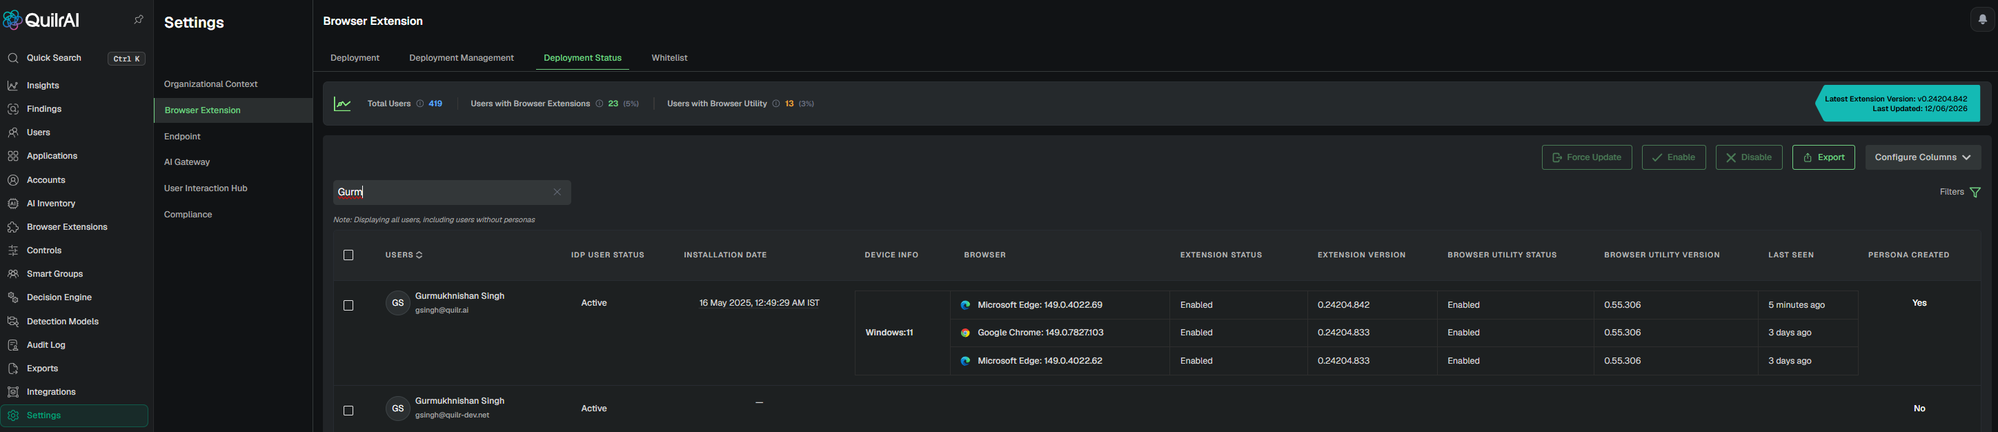
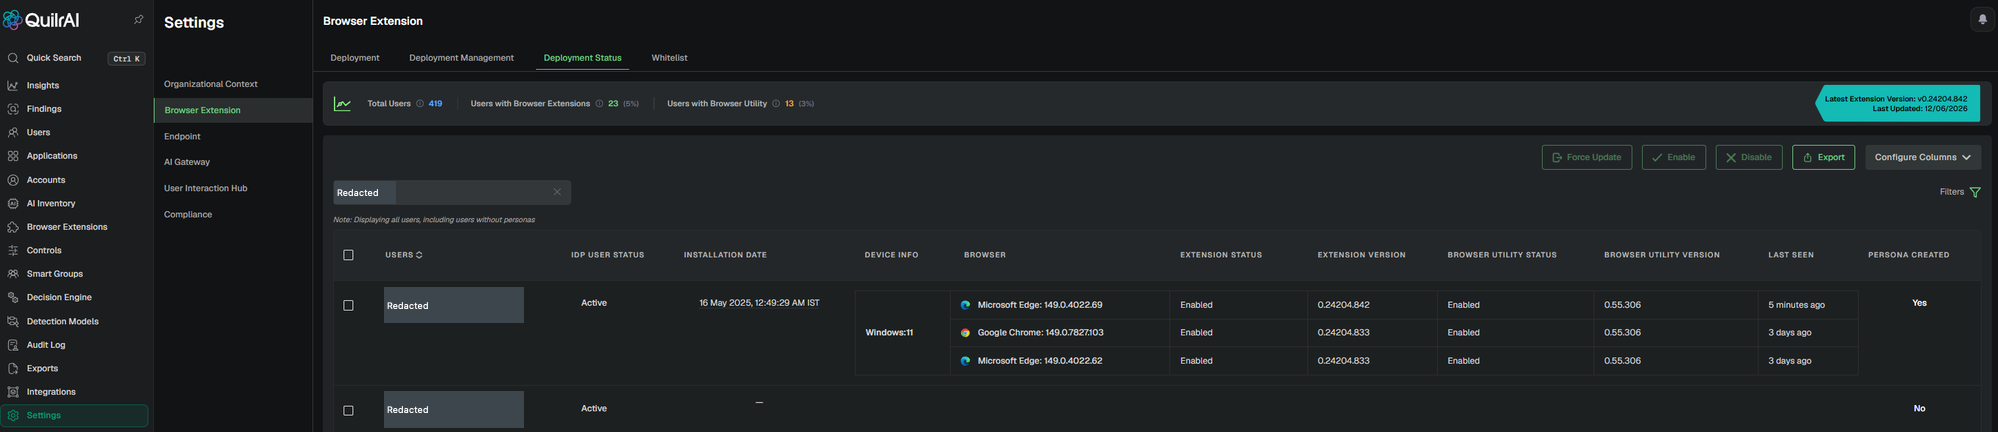
docs: redact identifying data from installation screenshots

Changed region(s): [[0.1862, 0.9028, 0.2793, 0.9931], [0.1862, 0.662, 0.2793, 0.7523], [0.1552, 0.4213, 0.1862, 0.4815]]

diff --git a/static/sop/Browser Extension/Step 4 - Validation Manual Installation/index.html b/static/sop/Browser Extension/Step 4 - Validation Manual Installation/index.html
@@ -94,7 +94,7 @@
       </table></div>
       <figure style="margin:12px 0 6px; padding:0;">
         <img src="../../assets/console-be-deployment-status.png"
-             alt="Quilr Console - Settings - Browser Extension - Deployment Status tab. A user row 'Gurmukhnishan Singh' (gsingh@quilr.ai) is shown with IdP status Active, three browser rows for Windows 11 (Microsoft Edge 149.0.4022.69, Google Chrome 149.0.7827.103, Microsoft Edge 149.0.4022.62), Extension Status Enabled with version 0.24204.842 / 0.24204.833, Browser Utility Status Enabled at 0.55.306, Last Seen times '5 minutes ago' / '3 days ago', and Persona Created = Yes."
+             alt="Browser Extension deployment status showing enabled browser rows; account identities and the search query are redacted."
              loading="lazy"
              style="display:block; width:100%; max-width:1280px; height:auto; margin:0 auto; border:1px solid var(--line); border-radius:10px; background:#0a0c12; box-shadow:0 6px 24px rgba(0,0,0,.35);" />
         <figcaption style="margin-top:8px; font-size:12.5px; color:var(--ink-soft); text-align:center;">
@@ -153,7 +153,7 @@
         </ul>
         <figure style="margin:14px 0 4px; padding:0; max-width:560px;">
           <img src="../../assets/quilr-popup-persona-active.png"
-               alt="Quilr extension popup in its healthy state. Header shows the Quilr logo and the green dot indicator with the text 'Persona Active & Extension Enabled'. Body reads: 'Congratulations! You did it right! You just made the world a much safer place by activating the extension. Registered to: gsingh@quilr.ai. Stay safe. Quilr it!' A green shield with a checkmark sits to the right. Footer shows Extension v0.24204.842 and Agent v0.55.306."
+               alt="Extension popup showing Persona Active and Extension Enabled; the registered email is redacted."
                loading="lazy"
                style="display:block; width:100%; height:auto; border:1px solid var(--line); border-radius:10px; background:#fff; box-shadow:0 6px 24px rgba(0,0,0,.18);" />
           <figcaption style="margin-top:8px; font-size:12.5px; color:var(--ink-soft);">
@@ -216,7 +216,7 @@
       </ol>
       <figure style="margin:10px 0 6px; padding:0;">
         <img src="../../assets/console-control-prevent-leak.png"
-             alt="Quilr Console - Controls page - AI Risks tab. The row 'Preventing The Leakage Of Sensitive Data Via An AI App' is shown with When This Happens 'a user shares sensitive data with an AI application', Criticality Low, Behavior 'Users Leaking Sensitive Data', Status toggle on, Mode dropdown set to 'Action'."
+             alt="Controls listing showing a sensitive-data control in Action mode; the updater identity is redacted."
              loading="lazy"
              style="display:block; width:100%; max-width:1280px; height:auto; margin:0 auto; border:1px solid var(--line); border-radius:10px; background:#0a0c12; box-shadow:0 6px 24px rgba(0,0,0,.35);" />
         <figcaption style="margin-top:8px; font-size:12.5px; color:var(--ink-soft); text-align:center;">
@@ -255,7 +255,7 @@ Monte Mceachern        477-12-8344    2/21/1991</code></pre></div>
       <div class="expect"><strong>Expected:</strong> the Quilr popup appears <em>before</em> the prompt is sent to the AI provider, titled <strong>&ldquo;Potentially Sensitive Data Detected.&rdquo;</strong>, with the tag <code>PERSONALLY IDENTIFIABLE INFORMATION (PII)</code> and the matched rows visible in the body. The user can&rsquo;t submit unmodified &mdash; they have to edit the prompt and click <strong>Resubmit and Continue</strong>.</div>
       <figure style="margin:12px 0 6px; padding:0; max-width:760px;">
         <img src="../../assets/quilr-popup-pii-block.png"
-             alt="Quilr Action-mode block popup. Title: &quot;Potentially Sensitive Data Detected.&quot; (yellow). Subtitle: &quot;Please review it and remove the sensitive information before submitting it to this website.&quot; A tag labelled &quot;PERSONALLY IDENTIFIABLE INFORMATION (PII)&quot; sits under &quot;Data types detected&quot;, plus a &quot;Highlight Sensitive Data&quot; button. The body shows the synthetic PII payload (Rick Edwards, Victor Faulkner, Lisa Garrison, &hellip;, Monte Mceachern) with their fake SSNs and DOBs. A green-outline &quot;Resubmit and Continue&quot; button sits in the bottom-right, with the Quilr logo and wordmark in the footer."
+             alt="Sensitive-data warning showing the detected PII category and Resubmit and Continue action; personal-data example rows are redacted."
              loading="lazy"
              style="display:block; width:100%; height:auto; margin:0 auto; border:1px solid var(--line); border-radius:10px; background:#0a0c12; box-shadow:0 6px 24px rgba(0,0,0,.35);" />
         <figcaption style="margin-top:8px; font-size:12.5px; color:var(--ink-soft); text-align:center;">
@@ -272,7 +272,7 @@ Monte Mceachern        477-12-8344    2/21/1991</code></pre></div>
       <p>The popup only proves the block happened locally. The finding row proves the event was uploaded to the backplane and attributed to the right user, app, and control. Open <a data-env-link href="https://app.quilr.ai/en/dashboard/findings" target="_blank" rel="noopener"><strong>Findings</strong></a> in the Console, switch to the <strong>Browser Extension Findings</strong> tab, then the <strong>AI Risks</strong> sub-tab. Filter <strong>Finding Type</strong> to <code>A user shares sensitive data with an AI application</code>.</p>
       <figure style="margin:12px 0 6px; padding:0;">
         <img src="../../assets/console-findings-be.png"
-             alt="Quilr Console - Findings - Browser Extension Findings - AI Risks tab. Two findings titled 'A user shares sensitive data with an AI application' shown with Finding ID, timestamp (14 Jun 2026), Login Email canary-quilrai@quilr.ai, Persona Email canary-quilrai@quilr.ai, Department Not Available, Account Usage Type Corporate, App ChatGPT (chatgpt.com) tagged Approved / Critical, Auth Type Credentials (Username & Password), Browser Name chrome, Extension version 0.24204.736, Control 'Preventing The Leakage Of Sensitive Data Via An AI App', Event Prompt, Outcome Not available as of now. Each row tagged AI Risks / Low criticality."
+             alt="Browser Extension findings showing sensitive-data events and their browser details; finding IDs, account identities and device identifiers are redacted."
              loading="lazy"
              style="display:block; width:100%; max-width:1280px; height:auto; margin:0 auto; border:1px solid var(--line); border-radius:10px; background:#0a0c12; box-shadow:0 6px 24px rgba(0,0,0,.35);" />
         <figcaption style="margin-top:8px; font-size:12.5px; color:var(--ink-soft); text-align:center;">
@@ -296,7 +296,7 @@ Monte Mceachern        477-12-8344    2/21/1991</code></pre></div>
       <div class="callout note" style="margin-top:10px;">
         <span class="ico">&#x1F50D;</span>
         <div><span class="ct">Use the Finding ID for escalation</span>
-        Every finding has a UUID (e.g. <code>a4ead1ed-ff81-4830-bc43-d9cc8cec2cea</code> in the screenshot). If a downstream system &mdash; SOAR, SIEM, ticketing &mdash; missed the event, hand the UUID to support; they can trace the whole upload &middot; classify &middot; persist chain from that single ID.</div>
+        Every finding has a UUID. Copy the finding ID when asking support to trace an event that did not arrive in a downstream system such as a SIEM, SOAR platform or ticketing tool.</div>
       </div>
 
       <h3>Test 4 &mdash; Multi-channel DLP coverage (copy &middot; upload &middot; paste)</h3>

diff --git a/static/sop/Browser Extension/Step 6 - Verify MDM Install/index.html b/static/sop/Browser Extension/Step 6 - Verify MDM Install/index.html
@@ -94,7 +94,7 @@
       </table></div>
       <figure style="margin:12px 0 6px; padding:0;">
         <img src="../../assets/console-be-deployment-status.png"
-             alt="Quilr Console - Settings - Browser Extension - Deployment Status tab. A user row 'Gurmukhnishan Singh' (gsingh@quilr.ai) is shown with IdP status Active, three browser rows for Windows 11 (Microsoft Edge 149.0.4022.69, Google Chrome 149.0.7827.103, Microsoft Edge 149.0.4022.62), Extension Status Enabled with version 0.24204.842 / 0.24204.833, Browser Utility Status Enabled at 0.55.306, Last Seen times '5 minutes ago' / '3 days ago', and Persona Created = Yes."
+             alt="Browser Extension deployment status showing enabled browser rows; account identities and the search query are redacted."
              loading="lazy"
              style="display:block; width:100%; max-width:1280px; height:auto; margin:0 auto; border:1px solid var(--line); border-radius:10px; background:#0a0c12; box-shadow:0 6px 24px rgba(0,0,0,.35);" />
         <figcaption style="margin-top:8px; font-size:12.5px; color:var(--ink-soft); text-align:center;">
@@ -153,7 +153,7 @@
         </ul>
         <figure style="margin:14px 0 4px; padding:0; max-width:560px;">
           <img src="../../assets/quilr-popup-persona-active.png"
-               alt="Quilr extension popup in its healthy state. Header shows the Quilr logo and the green dot indicator with the text 'Persona Active & Extension Enabled'. Body reads: 'Congratulations! You did it right! You just made the world a much safer place by activating the extension. Registered to: gsingh@quilr.ai. Stay safe. Quilr it!' A green shield with a checkmark sits to the right. Footer shows Extension v0.24204.842 and Agent v0.55.306."
+               alt="Extension popup showing Persona Active and Extension Enabled; the registered email is redacted."
                loading="lazy"
                style="display:block; width:100%; height:auto; border:1px solid var(--line); border-radius:10px; background:#fff; box-shadow:0 6px 24px rgba(0,0,0,.18);" />
           <figcaption style="margin-top:8px; font-size:12.5px; color:var(--ink-soft);">
@@ -216,7 +216,7 @@
       </ol>
       <figure style="margin:10px 0 6px; padding:0;">
         <img src="../../assets/console-control-prevent-leak.png"
-             alt="Quilr Console - Controls page - AI Risks tab. The row 'Preventing The Leakage Of Sensitive Data Via An AI App' is shown with When This Happens 'a user shares sensitive data with an AI application', Criticality Low, Behavior 'Users Leaking Sensitive Data', Status toggle on, Mode dropdown set to 'Action'."
+             alt="Controls listing showing a sensitive-data control in Action mode; the updater identity is redacted."
              loading="lazy"
              style="display:block; width:100%; max-width:1280px; height:auto; margin:0 auto; border:1px solid var(--line); border-radius:10px; background:#0a0c12; box-shadow:0 6px 24px rgba(0,0,0,.35);" />
         <figcaption style="margin-top:8px; font-size:12.5px; color:var(--ink-soft); text-align:center;">
@@ -255,7 +255,7 @@ Monte Mceachern        477-12-8344    2/21/1991</code></pre></div>
       <div class="expect"><strong>Expected:</strong> the Quilr popup appears <em>before</em> the prompt is sent to the AI provider, titled <strong>&ldquo;Potentially Sensitive Data Detected.&rdquo;</strong>, with the tag <code>PERSONALLY IDENTIFIABLE INFORMATION (PII)</code> and the matched rows visible in the body. The user can&rsquo;t submit unmodified &mdash; they have to edit the prompt and click <strong>Resubmit and Continue</strong>.</div>
       <figure style="margin:12px 0 6px; padding:0; max-width:760px;">
         <img src="../../assets/quilr-popup-pii-block.png"
-             alt="Quilr Action-mode block popup. Title: &quot;Potentially Sensitive Data Detected.&quot; (yellow). Subtitle: &quot;Please review it and remove the sensitive information before submitting it to this website.&quot; A tag labelled &quot;PERSONALLY IDENTIFIABLE INFORMATION (PII)&quot; sits under &quot;Data types detected&quot;, plus a &quot;Highlight Sensitive Data&quot; button. The body shows the synthetic PII payload (Rick Edwards, Victor Faulkner, Lisa Garrison, &hellip;, Monte Mceachern) with their fake SSNs and DOBs. A green-outline &quot;Resubmit and Continue&quot; button sits in the bottom-right, with the Quilr logo and wordmark in the footer."
+             alt="Sensitive-data warning showing the detected PII category and Resubmit and Continue action; personal-data example rows are redacted."
              loading="lazy"
              style="display:block; width:100%; height:auto; margin:0 auto; border:1px solid var(--line); border-radius:10px; background:#0a0c12; box-shadow:0 6px 24px rgba(0,0,0,.35);" />
         <figcaption style="margin-top:8px; font-size:12.5px; color:var(--ink-soft); text-align:center;">
@@ -272,7 +272,7 @@ Monte Mceachern        477-12-8344    2/21/1991</code></pre></div>
       <p>The popup only proves the block happened locally. The finding row proves the event was uploaded to the backplane and attributed to the right user, app, and control. Open <a data-env-link href="https://app.quilr.ai/en/dashboard/findings" target="_blank" rel="noopener"><strong>Findings</strong></a> in the Console, switch to the <strong>Browser Extension Findings</strong> tab, then the <strong>AI Risks</strong> sub-tab. Filter <strong>Finding Type</strong> to <code>A user shares sensitive data with an AI application</code>.</p>
       <figure style="margin:12px 0 6px; padding:0;">
         <img src="../../assets/console-findings-be.png"
-             alt="Quilr Console - Findings - Browser Extension Findings - AI Risks tab. Two findings titled 'A user shares sensitive data with an AI application' shown with Finding ID, timestamp (14 Jun 2026), Login Email canary-quilrai@quilr.ai, Persona Email canary-quilrai@quilr.ai, Department Not Available, Account Usage Type Corporate, App ChatGPT (chatgpt.com) tagged Approved / Critical, Auth Type Credentials (Username & Password), Browser Name chrome, Extension version 0.24204.736, Control 'Preventing The Leakage Of Sensitive Data Via An AI App', Event Prompt, Outcome Not available as of now. Each row tagged AI Risks / Low criticality."
+             alt="Browser Extension findings showing sensitive-data events and their browser details; finding IDs, account identities and device identifiers are redacted."
              loading="lazy"
              style="display:block; width:100%; max-width:1280px; height:auto; margin:0 auto; border:1px solid var(--line); border-radius:10px; background:#0a0c12; box-shadow:0 6px 24px rgba(0,0,0,.35);" />
         <figcaption style="margin-top:8px; font-size:12.5px; color:var(--ink-soft); text-align:center;">
@@ -296,7 +296,7 @@ Monte Mceachern        477-12-8344    2/21/1991</code></pre></div>
       <div class="callout note" style="margin-top:10px;">
         <span class="ico">&#x1F50D;</span>
         <div><span class="ct">Use the Finding ID for escalation</span>
-        Every finding has a UUID (e.g. <code>a4ead1ed-ff81-4830-bc43-d9cc8cec2cea</code> in the screenshot). If a downstream system &mdash; SOAR, SIEM, ticketing &mdash; missed the event, hand the UUID to support; they can trace the whole upload &middot; classify &middot; persist chain from that single ID.</div>
+        Every finding has a UUID. Copy the finding ID when asking support to trace an event that did not arrive in a downstream system such as a SIEM, SOAR platform or ticketing tool.</div>
       </div>
 
       <h3>Test 4 &mdash; Multi-channel DLP coverage (copy &middot; upload &middot; paste)</h3>

diff --git a/static/sop/Endpoint Agent/Step 4 - Validation Manual Installation/index.html b/static/sop/Endpoint Agent/Step 4 - Validation Manual Installation/index.html
@@ -94,7 +94,7 @@
       </table></div>
       <figure style="margin:12px 0 6px; padding:0;">
         <img src="../../assets/console-ea-deployment-status.png"
-             alt="Quilr Console - Settings - Endpoint - Deployment Status tab. Three devices listed: GURMUKH-LAPTOP (Windows 11) and Gurmukhnishans-MacBook.local (Mac OS X:26_5_1) registered to gsingh@quilr.ai with status Enabled and version 1.0.48, and Gurmukh-Windows-Laptop with version 1.0.0, all showing 'Enabled' status with Last Seen times '10 hours ago', '1 day ago', '3 weeks ago'."
+             alt="Endpoint deployment status showing device operating systems, enabled states and versions; device identifiers, names, emails and the search query are redacted."
              loading="lazy"
              style="display:block; width:100%; max-width:1280px; height:auto; margin:0 auto; border:1px solid var(--line); border-radius:10px; background:#0a0c12; box-shadow:0 6px 24px rgba(0,0,0,.35);" />
         <figcaption style="margin-top:8px; font-size:12.5px; color:var(--ink-soft); text-align:center;">
@@ -486,7 +486,7 @@ Monte Mceachern        477-12-8344    2/21/1991</code></pre></div>
       <div class="expect"><strong>Expected:</strong> a native OS window titled <strong>&ldquo;Quilr | Security Alert&rdquo;</strong> appears <em>before</em> the prompt leaves the app, with title <strong>&ldquo;Potentially Sensitive Data Detected.&rdquo;</strong>, the <code>PERSONALLY IDENTIFIABLE INFORMATION (PII)</code> tag, the matched rows underlined in red, and a <strong>Reason for bypassing</strong> dropdown the user must pick before they can click <strong>Continue with Original</strong>. The popup is rendered by the templating-engine subprocess (see Step&nbsp;6 critical-logs &middot; <code>templating-engine.log</code>).</div>
       <figure style="margin:12px 0 6px; padding:0; max-width:720px;">
         <img src="../../assets/quilr-popup-ea-pii.png"
-             alt="Quilr Endpoint Agent native popup. Window title 'Quilr | Security Alert' (blue chrome). Body title 'Potentially Sensitive Data Detected.' in yellow, subtitle 'Please review content before submitting to external website.', tag 'PERSONALLY IDENTIFIABLE INFORMATION (PII)', 'Highlight Sensitive Data' button, the synthetic-PII payload table (Robert Aragon, Ashley Borden, Thomas Conley, ...) with the SSN columns and dates underlined in red. A 'Reason for bypassing:' dropdown labelled 'Select a justification...' sits below. Footer reads 'Stay safe, Quilr it!' and a green-outlined 'Continue with Original' button is in the bottom-right."
+             alt="Endpoint security alert showing the detected PII category and justification control; personal-data example rows are redacted."
              loading="lazy"
              style="display:block; width:100%; height:auto; margin:0 auto; border:1px solid var(--line); border-radius:10px; background:#0a0c12; box-shadow:0 6px 24px rgba(0,0,0,.35);" />
         <figcaption style="margin-top:8px; font-size:12.5px; color:var(--ink-soft); text-align:center;">

diff --git a/static/sop/Endpoint Agent/Step 7 - Verify MDM Install/index.html b/static/sop/Endpoint Agent/Step 7 - Verify MDM Install/index.html
@@ -94,7 +94,7 @@
       </table></div>
       <figure style="margin:12px 0 6px; padding:0;">
         <img src="../../assets/console-ea-deployment-status.png"
-             alt="Quilr Console - Settings - Endpoint - Deployment Status tab. Three devices listed: GURMUKH-LAPTOP (Windows 11) and Gurmukhnishans-MacBook.local (Mac OS X:26_5_1) registered to gsingh@quilr.ai with status Enabled and version 1.0.48, and Gurmukh-Windows-Laptop with version 1.0.0, all showing 'Enabled' status with Last Seen times '10 hours ago', '1 day ago', '3 weeks ago'."
+             alt="Endpoint deployment status showing device operating systems, enabled states and versions; device identifiers, names, emails and the search query are redacted."
              loading="lazy"
              style="display:block; width:100%; max-width:1280px; height:auto; margin:0 auto; border:1px solid var(--line); border-radius:10px; background:#0a0c12; box-shadow:0 6px 24px rgba(0,0,0,.35);" />
         <figcaption style="margin-top:8px; font-size:12.5px; color:var(--ink-soft); text-align:center;">
@@ -486,7 +486,7 @@ Monte Mceachern        477-12-8344    2/21/1991</code></pre></div>
       <div class="expect"><strong>Expected:</strong> a native OS window titled <strong>&ldquo;Quilr | Security Alert&rdquo;</strong> appears <em>before</em> the prompt leaves the app, with title <strong>&ldquo;Potentially Sensitive Data Detected.&rdquo;</strong>, the <code>PERSONALLY IDENTIFIABLE INFORMATION (PII)</code> tag, the matched rows underlined in red, and a <strong>Reason for bypassing</strong> dropdown the user must pick before they can click <strong>Continue with Original</strong>. The popup is rendered by the templating-engine subprocess (see Step&nbsp;6 critical-logs &middot; <code>templating-engine.log</code>).</div>
       <figure style="margin:12px 0 6px; padding:0; max-width:720px;">
         <img src="../../assets/quilr-popup-ea-pii.png"
-             alt="Quilr Endpoint Agent native popup. Window title 'Quilr | Security Alert' (blue chrome). Body title 'Potentially Sensitive Data Detected.' in yellow, subtitle 'Please review content before submitting to external website.', tag 'PERSONALLY IDENTIFIABLE INFORMATION (PII)', 'Highlight Sensitive Data' button, the synthetic-PII payload table (Robert Aragon, Ashley Borden, Thomas Conley, ...) with the SSN columns and dates underlined in red. A 'Reason for bypassing:' dropdown labelled 'Select a justification...' sits below. Footer reads 'Stay safe, Quilr it!' and a green-outlined 'Continue with Original' button is in the bottom-right."
+             alt="Endpoint security alert showing the detected PII category and justification control; personal-data example rows are redacted."
              loading="lazy"
              style="display:block; width:100%; height:auto; margin:0 auto; border:1px solid var(--line); border-radius:10px; background:#0a0c12; box-shadow:0 6px 24px rgba(0,0,0,.35);" />
         <figcaption style="margin-top:8px; font-size:12.5px; color:var(--ink-soft); text-align:center;">

diff --git a/static/sop/Browser Extension/Step 3 - Manual Installation/index.html b/static/sop/Browser Extension/Step 3 - Manual Installation/index.html
@@ -95,7 +95,7 @@
       <div style="display:flex; flex-wrap:wrap; gap:16px; align-items:flex-start; margin:12px 0 6px;">
         <figure style="flex:1 1 340px; min-width:280px; margin:0; padding:0;">
           <img src="../../assets/installer-tenant-browser-selection-macos.png"
-               alt="macOS installer 'Install QuilrAI Browser Extension', Configuration step. A 'Quilr Tenant ID' field with placeholder e.g. 442e052d-4c60-4cdc-961e-bc9db74a40ca, and under 'Install the Quilr extension for:' four checked browsers: Google Chrome, Microsoft Edge, Mozilla Firefox, and Safari. Go Back and Continue buttons."
+               alt="macOS browser-extension installer Configuration step showing browser choices; the tenant ID example is redacted."
                loading="lazy"
                style="display:block; width:100%; height:auto; border:1px solid var(--line); border-radius:10px; background:#0a0c12; box-shadow:0 6px 24px rgba(0,0,0,.35);" />
           <figcaption style="margin-top:8px; font-size:12.5px; color:var(--ink-soft); text-align:center;">
@@ -249,7 +249,7 @@ sudo chmod 600 /tmp/quilr-be-install.json</code></pre></div>
               <table>
                 <thead><tr><th>Property</th><th>Values / example</th><th>What it does</th></tr></thead>
                 <tbody>
-                  <tr><td><code>TENANT</code></td><td>GUID, e.g. <code>TENANT=2fc6fb7e-be22-47b7-b9cb-71471eec5627</code></td><td><strong>Required.</strong> Tenant ID — flows into managed storage (<code>PLASMO_PUBLIC_TENANTID</code>), extension URLs, the native-messaging-host manifest, and logs. Interactive (non-silent) installs prompt for it.</td></tr>
+                  <tr><td><code>TENANT</code></td><td>Your tenant GUID, for example <code>TENANT=YOUR_TENANT_ID</code></td><td><strong>Required.</strong> Tenant ID — flows into managed storage (<code>PLASMO_PUBLIC_TENANTID</code>), extension URLs, the native-messaging-host manifest, and logs. Interactive (non-silent) installs prompt for it.</td></tr>
                   <tr><td><code>PINNED</code></td><td><code>true</code> (default) / <code>false</code></td><td>Pin the extension to the browser toolbar. <code>false</code> omits the pin fields. Not persisted across upgrades.</td></tr>
                   <tr><td><code>ENVIRONMENT</code></td><td><code>USA-POC</code> (default), <code>USA-Prod</code>, <code>India-POC</code>, <code>India-Prod</code>, <code>MEA-POC</code></td><td>Backend environment label; persisted as <code>&hellip;\Install\Environment</code>.</td></tr>
                   <tr><td><code>PROXY</code></td><td><code>host:port</code>, or <code>none</code>/<code>direct</code>, or <code>system</code>/<code>auto</code></td><td>Egress proxy for the updater / log-uploader&rsquo;s own calls; persisted as <code>&hellip;\Install\Proxy</code>.</td></tr>
